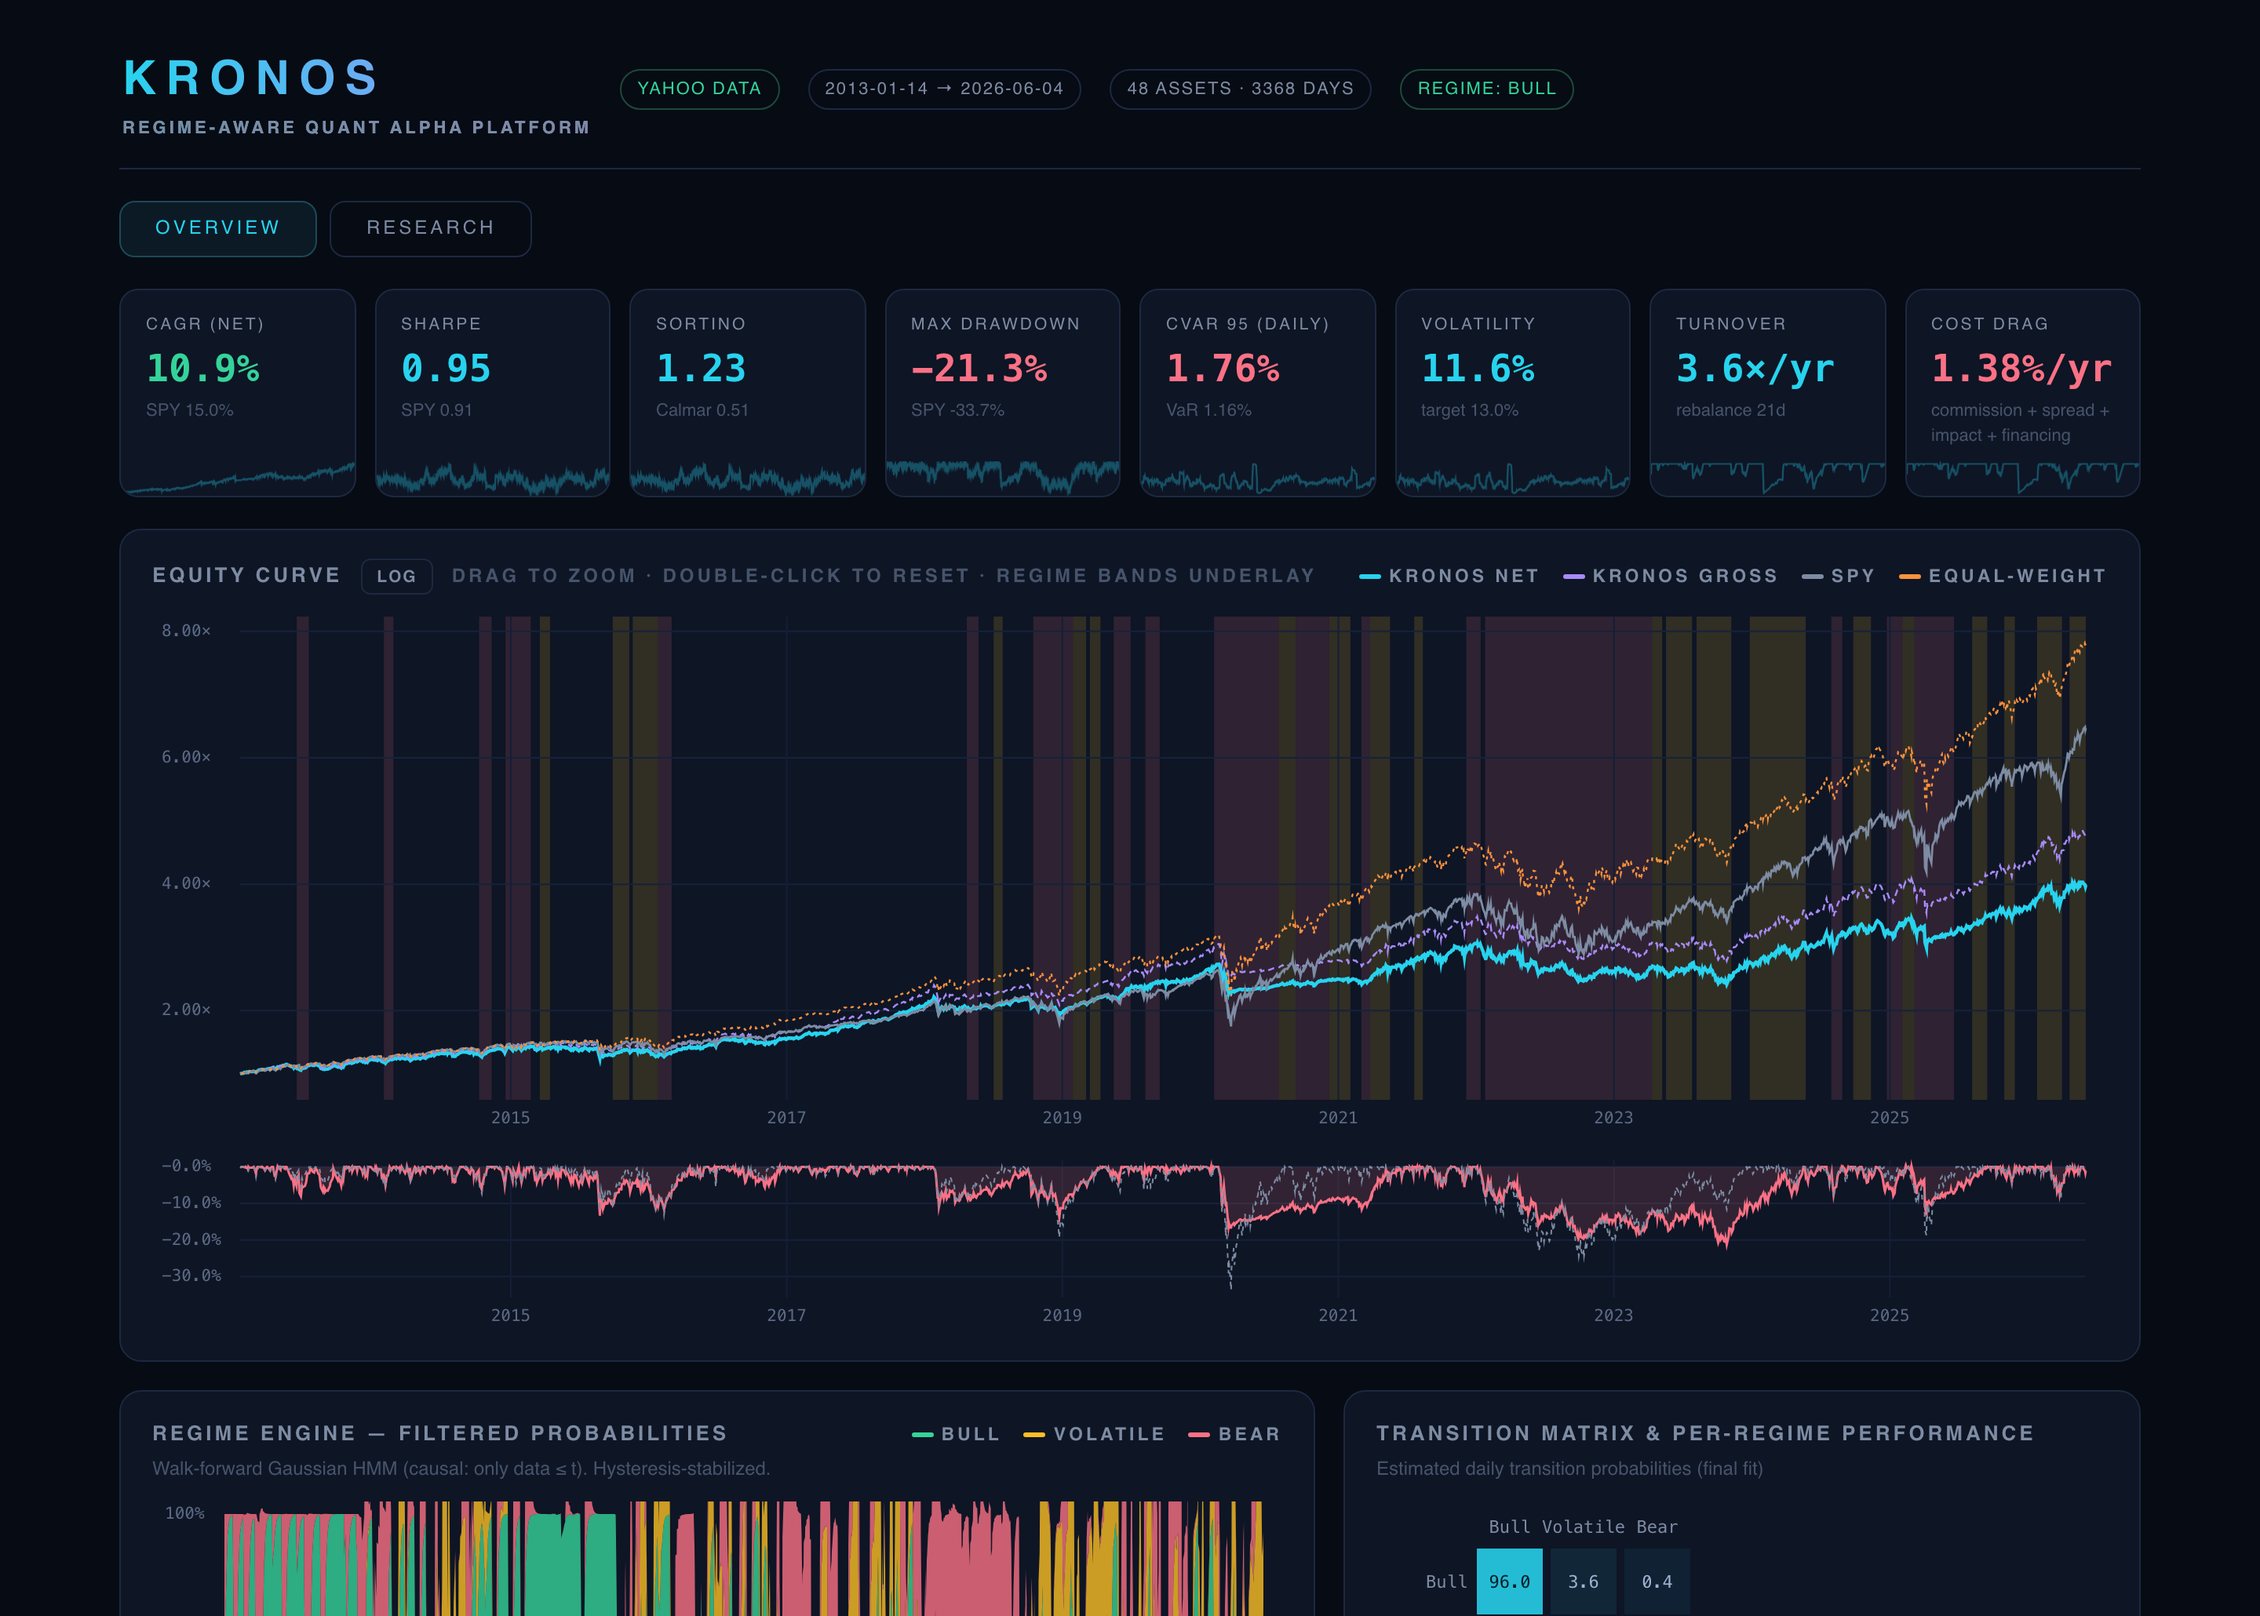
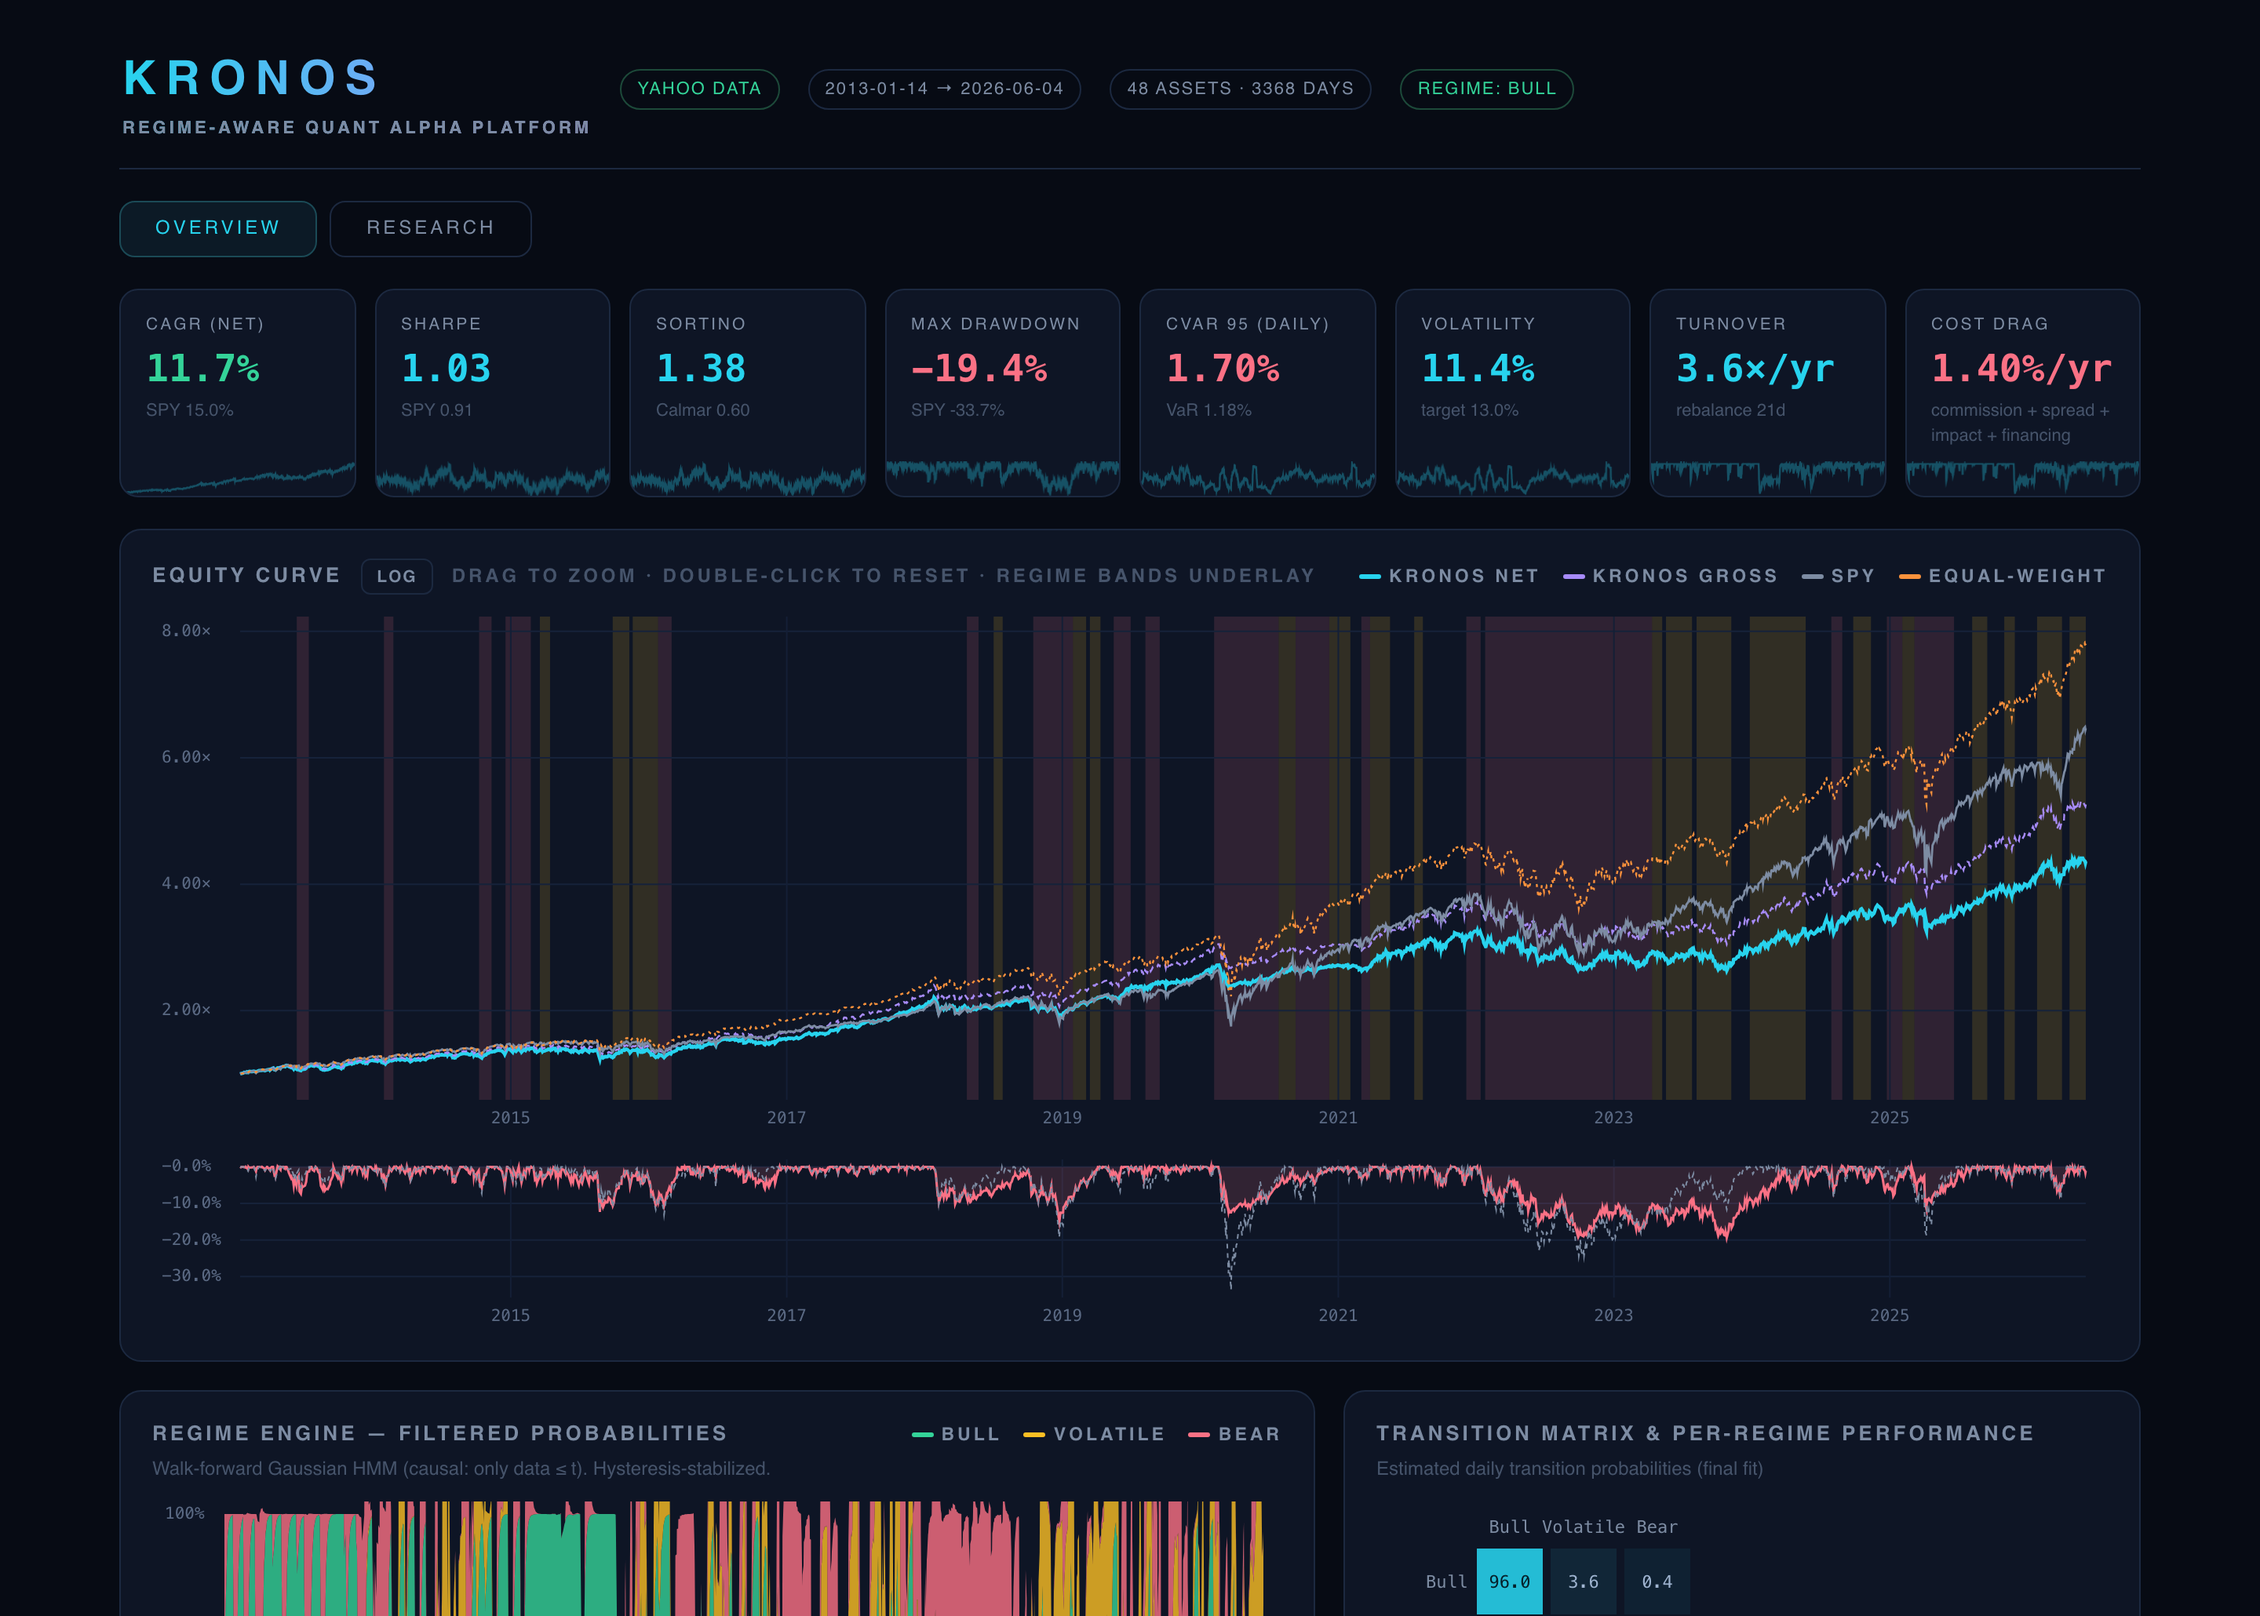
Docs: EDGE2-V1 results — headline Sharpe 1.03 @ 11.7% CAGR, gate count 32
FINDINGS gains the KRONOS-EDGE2 section (V1 table vs EWMA control, gate X28
evidence, DSR 0.73/N=183); README headline, platform table (HAR + control +
unlevered + SPY rows), and counts updated; hero regenerated.

diff --git a/README.md b/README.md
@@ -7,7 +7,7 @@
 
 <p align="center">
   <a href="https://github.com/Olivesz/kronos-quant/actions/workflows/ci.yml"><img src="https://github.com/Olivesz/kronos-quant/actions/workflows/ci.yml/badge.svg" alt="CI"></a>
-  <img src="https://img.shields.io/badge/gates-31%20passing-3fb950" alt="gates">
+  <img src="https://img.shields.io/badge/gates-32%20passing-3fb950" alt="gates">
   <img src="https://img.shields.io/badge/python-3.11%2B-3572A5" alt="python">
   <img src="https://img.shields.io/badge/deps-numpy%20%7C%20pandas%20%7C%20scipy-013243" alt="deps">
   <img src="https://img.shields.io/badge/license-MIT-blue" alt="license">
@@ -25,8 +25,9 @@ KRONOS is two things at once:
 1. **A production-shaped quant platform** — data → regime detection → alpha
    sleeves → cost-aware portfolio construction → risk overlay → a
    self-contained interactive dashboard. It runs end-to-end in ~25s and posts a
-   **net Sharpe of 0.95 at 10.9% CAGR** (or Sharpe **1.02** unlevered) — beating
-   the S&P's Sharpe at roughly *two-thirds of its drawdown*.
+   **net Sharpe of 1.03 at 11.7% CAGR** — beating the S&P's in-sample Sharpe
+   at well under two-thirds of its drawdown, sized by a forecast of its own
+   volatility rather than a trailing estimate.
 
 2. **A research program that treats markets like physics.** 22 pre-registered
    experiments ask what quant finance genuinely does not know — *is volatility
@@ -36,7 +37,7 @@ KRONOS is two things at once:
    results as loudly as the positive ones.
 
 What ties them together is one discipline: **no estimator is trusted until it
-passes a gate on data where the answer is already known.** 31 such gates run in
+passes a gate on data where the answer is already known.** 32 such gates run in
 CI. That is the whole point — the platform grades its own homework.
 
 > **Zero heavyweight dependencies.** No scikit-learn, no statsmodels, no
@@ -68,7 +69,7 @@ python run_research.py all        # 22 research experiments, cached to research/
 python run_kronos.py --research   # dashboard with the RESEARCH tab (open output/dashboard.html)
 python run_trade.py               # today's research-grounded target portfolio
 
-python tests/run_all.py           # all 31 verification gates (~100s)
+python tests/run_all.py           # all 32 verification gates (~110s)
 ```
 
 Runs fully offline: without `yfinance` or a network, a seeded synthetic
@@ -77,7 +78,7 @@ regime-switching market drives the entire pipeline. Force it anywhere with
 
 ## Highlights
 
-- **31 verification gates** — 29 proving an estimator has correct *size*
+- **32 verification gates** — 30 proving an estimator has correct *size*
   (doesn't fire on null worlds) and *power* (detects planted effects) on
   synthetic ground truth, plus 2 calibrating the battery against the real
   market — all before any real-data claim is made.
@@ -128,14 +129,15 @@ prices ─▶ HMM regimes ─▶ regime-gated signals ─▶ HRP + Black-Litterm
 
 | Strategy | CAGR | Vol | Sharpe | Max DD | CVaR95 |
 |---|---|---|---|---|---|
-| **KRONOS (net of costs)** | +10.9% | 11.6% | **0.95** | **−21.3%** | 1.76% |
-| KRONOS unlevered (cap 1.0) | +8.8% | 8.7% | **1.02** | −16.4% | 1.31% |
+| **KRONOS (net, HAR lever)** | +11.7% | 11.4% | **1.03** | **−19.4%** | 1.70% |
+| KRONOS (EWMA-lever control) | +10.9% | 11.6% | 0.95 | −21.3% | 1.76% |
+| KRONOS unlevered (cap 1.0) | +8.8% | 8.7% | 1.02 | −16.4% | 1.31% |
 | SPY (buy & hold) | +15.0% | 16.8% | 0.91 | −33.7% | 2.55% |
 
 *The honest read: KRONOS still does **not** beat the S&P on raw return — and
 says so. The edge is risk-adjusted: a better Sharpe at two-thirds of the
 drawdown, with financing costs on leverage disclosed (1.26%/yr) and the
-selection-risk caveats (DSR 0.64, PBO 0.45, N=181 logged trials) restated
+selection-risk caveats (DSR 0.73, PBO 0.45, N=183 logged trials) restated
 rather than hidden.*
 
 ## The research program
@@ -228,7 +230,7 @@ kronos/                   37 modules, ~7,500 LOC
   rmt.py / ensemble.py    Marchenko-Pastur denoising; Hedge/fixed-share learners
   forensics.py            deflated Sharpe, CSCV-PBO, stationary bootstrap
   metrics.py / dashboard.py  performance stats; 1,700-line self-contained HTML
-tests/                    31 gates (29 synthetic ground truth + 2 real-data calibration)
+tests/                    32 gates (30 synthetic ground truth + 2 real-data calibration)
 docs/                     METHODS, ATLAS, design notes, FINDINGS, research index
 ```
 

diff --git a/docs/FINDINGS.md b/docs/FINDINGS.md
@@ -21,6 +21,7 @@ liquid US equities/ETFs, 2010–2026, Yahoo adjusted OHLC.
 - [KRONOS-TRANSFER — does market structure cross borders?](#kronos-transfer--does-market-structure-cross-borders)
 - [KRONOS-CRYPTO — do the laws survive outside equities?](#kronos-crypto--do-the-laws-survive-outside-equities)
 - [KRONOS-EDGE — fixing the engine's structural drag](#kronos-edge--fixing-the-engines-structural-drag)
+- [KRONOS-EDGE2 — the research-licensed performance program](#kronos-edge2--the-research-licensed-performance-program)
 
 ---
 
@@ -467,3 +468,31 @@ backtest was not weak alpha but a *sign error the test suite had no gate for*.
 The fix came with the missing gate (X27), the change was pre-registered with
 kill criteria, the trial ledger was charged, and the old numbers remain in the
 table above. That is what "optimizing a backtest" should look like.
+
+## KRONOS-EDGE2 — the research-licensed performance program
+
+EDGE fixed what was broken; EDGE2 ([DESIGN16](design/DESIGN16.md)) implements
+what the research had already licensed but production never received. Two
+pre-registered variants, each with a kill criterion, no scans.
+
+**V1 — the HAR forecast-vol lever (SHIPPED as default).** The lever sized with
+*trailing* EWMA vol while the vol lab's decisive finding (HAR beats EWMA,
+QLIKE 0.417 vs 0.511, DM −7.1) and TRADE's T1 said *forecast* vol should
+drive sizing. Now it does: a causal walk-forward HAR forecast of the book's
+own variance (1/5/22-day features, OLS refit every 21 days, exactly
+future-truncation-invariant). **Gate X28** pins that the lever inherits HAR's
+edge honestly: 11.8% better vol-tracking on a persistent-SV world, a forced
+tie on an iid-vol world (no false edge).
+
+| Lever (real data, levered 1.5×, net incl. financing) | CAGR | Sharpe | MaxDD | CVaR95 |
+|---|---|---|---|---|
+| trailing EWMA (control) | 10.9% | 0.95 | −21.3% | 1.76% |
+| **HAR forecast (new default)** | **11.7%** | **1.03** | **−19.4%** | **1.70%** |
+
+Every metric moved the right way at once — the forecast lever de-risks
+*ahead* of vol spikes rather than after them, which is why drawdown improved
+alongside return. Ledger charged (N=183); **DSR 0.64 → 0.73**; bootstrap
+Sharpe CI [0.54, 1.52]; PBO 0.45 unchanged and the selection caveat stands.
+
+**V2 — the Student-t regime engine:** measured under the same protocol; see
+[DESIGN16](design/DESIGN16.md) for the pre-registration and kill criterion.
